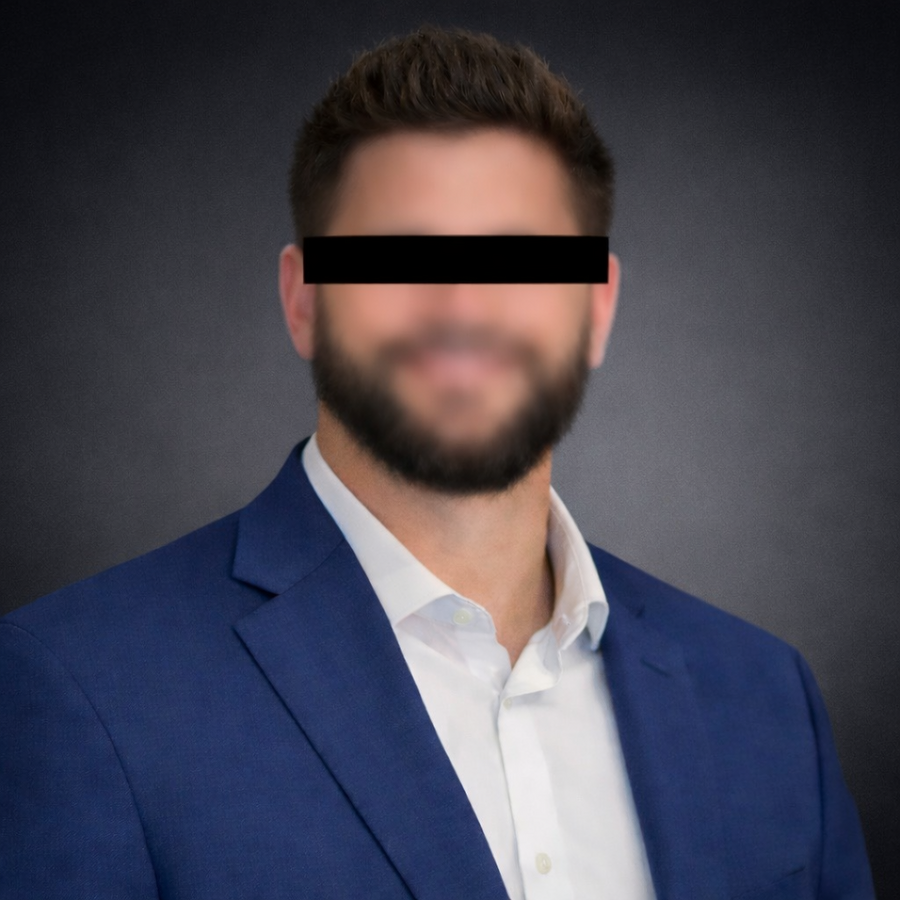
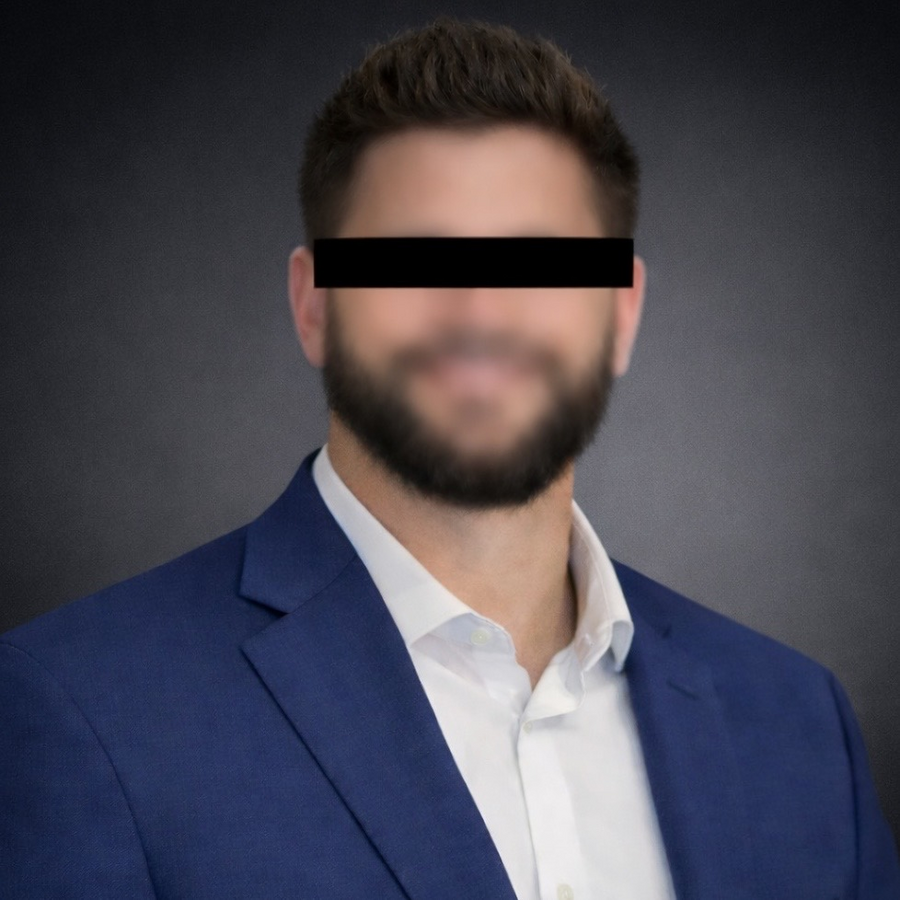
Enhance or create Founder page and add optimized headshot image with styling (699dbfc62cb6a9fb51eb2501)

diff --git a/app/founder/page.tsx b/app/founder/page.tsx
@@ -36,7 +36,7 @@ export default function Page() {
             src="/images/founder-headshot.png"
             alt="Founder of Hardline Privacy"
             width={900}
-            height={1200}
+            height={900}
             className="rounded-[12px] object-cover w-full h-auto max-w-[420px] shadow-lg"
             loading="lazy"
             priority={false}
@@ -46,6 +46,7 @@ export default function Page() {
 
         <div>
           <h2 id="hero-heading" className="sr-only">Authority positioning</h2>
+          <p className="text-2xl font-semibold mb-1">Grey</p>
           <p className="text-sm uppercase tracking-[0.2em] text-gray-500 mb-2">Founder</p>
           <p className="text-xl font-semibold mb-3">Founder, Hardline Privacy</p>
           <p className="mb-4">The founder leads data broker removal, digital exposure reduction, and privacy advocacy with a clear mandate: reclaim personal data control through disciplined, repeatable execution.</p>
